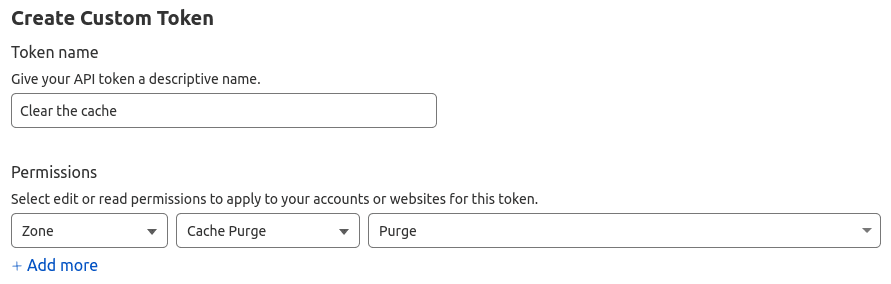
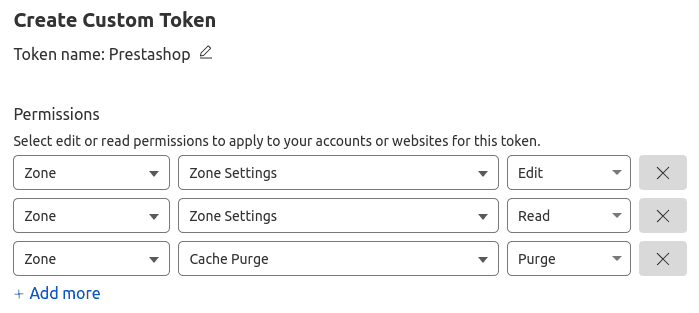
Allow to manage Minify settings

diff --git a/pixel_cloudflare.php b/pixel_cloudflare.php
@@ -9,7 +9,9 @@ if (!defined('_PS_VERSION_')) {
     exit;
 }
 
+use Pixel\Module\Cloudflare\Model\Api;
 use PrestaShop\PrestaShop\Core\Addon\Theme\ThemeProviderInterface;
+use PrestaShop\PrestaShop\Core\Exception\ContainerNotFoundException;
 use PrestaShop\PrestaShop\Core\Module\WidgetInterface;
 
 class Pixel_cloudflare extends Module
@@ -207,6 +209,38 @@ class Pixel_cloudflare extends Module
                 'name'     => 'CLOUDFLARE_ACCOUNT_EMAIL',
                 'size'     => 20,
                 'required' => false,
+            ],
+            'API_AUTOMATICALLY_MINIFY' => [
+                'type'     => 'select',
+                'multiple' => true,
+                'label'    => $this->trans('Automatically minify', [], 'Modules.Pixelcloudflare.Admin'),
+                'name'     => 'API_AUTOMATICALLY_MINIFY[]',
+                'required' => false,
+                'options' => [
+                    'query' => [
+                        [
+                            'value' => 'js',
+                            'name'  => $this->trans('JavaScript', [], 'Modules.Pixelcloudflare.Admin'),
+                        ],
+                        [
+                            'value' => 'css',
+                            'name'  => $this->trans('CSS', [], 'Modules.Pixelcloudflare.Admin'),
+                        ],
+                        [
+                            'value' => 'html',
+                            'name'  => $this->trans('HTML', [], 'Modules.Pixelcloudflare.Admin'),
+                        ],
+                    ],
+                    'id'   => 'value',
+                    'name' => 'name',
+                ],
+                'desc' => Configuration::get('CLOUDFLARE_API_AUTHENTICATION_MODE') === 'api_token' ?
+                    $this->trans(
+                    'A valid token with permission on "Zone Settings" for "Zone" is required (Read and Edit).',
+                    [],
+                    'Modules.Pixelcloudflare.Admin'
+                    ) : ''
+                ,
             ]
         ];
     }
@@ -215,14 +249,28 @@ class Pixel_cloudflare extends Module
      * This method handles the module's configuration page
      *
      * @return string
+     * @throws ContainerNotFoundException
      */
     public function getContent(): string
     {
         $output = '';
 
+        /** @var Api $api */
+        $api = $this->getContainer()->get('pixel.cloudflare.api');
+
         if (Tools::isSubmit('submit' . $this->name)) {
             foreach ($this->getConfigFields() as $code => $field) {
-                $value = Tools::getValue($field['name']);
+                $value = Tools::getValue($code);
+
+                // Cloudflare API settings
+                if ($code === 'API_AUTOMATICALLY_MINIFY') {
+                    if (is_array($value)) {
+                        $api->patchMinifySetting($value);
+                    }
+                    continue;
+                }
+
+                // Prestashop settings
                 if ($field['required'] && empty($value)) {
                     return $this->displayError(
                             $this->trans('%field% is empty', ['%field%' => $field['label']], 'Modules.Pixelcloudflare.Admin')
@@ -244,6 +292,7 @@ class Pixel_cloudflare extends Module
      * Builds the configuration form
      *
      * @return string
+     * @throws ContainerNotFoundException
      */
     public function displayForm(): string
     {
@@ -270,11 +319,28 @@ class Pixel_cloudflare extends Module
 
         $helper->default_form_language = (int) Configuration::get('PS_LANG_DEFAULT');
 
+        /** @var Api $api */
+        $api = $this->getContainer()->get('pixel.cloudflare.api');
+
         foreach ($this->getConfigFields() as $code => $field) {
+            // Prestashop settings
             $value = Tools::getValue($code, Configuration::get($code));
+
             if (!is_array($value) && ($field['multiple'] ?? false) === true) {
-                $value = explode(',', $value);
+                $value = explode(',', (string)$value);
             }
+
+            // Cloudflare API settings
+            if ($code === 'API_AUTOMATICALLY_MINIFY') {
+                $value = [];
+                $result = $api->GetMinifySetting();
+                foreach (($result['result']['value'] ?? []) as $type => $state) {
+                    if (strtolower($state) === 'on') {
+                        $value[] = $type;
+                    }
+                }
+            }
+
             $helper->fields_value[$field['name']] = $value;
         }
 

diff --git a/src/Model/Api.php b/src/Model/Api.php
@@ -39,6 +39,58 @@ class Api
     }
 
     /**
+     * Retrieve minifier settings
+     *
+     * @return array
+     */
+    public function GetMinifySetting(): array
+    {
+        if (!$this->config->getZoneId()) {
+            return $this->internalError('The Zone ID parameter is missing in the module configuration');
+        }
+
+        try {
+            return $this->execute(
+                'GET',
+                'zones/' . $this->config->getZoneId() . '/settings/minify'
+            );
+        } catch (Throwable $throwable) {
+            return $this->internalError($throwable->getMessage());
+        }
+    }
+
+    /**
+     * Patch Minify Setting
+     *
+     * @param array $values
+     * @return array
+     */
+    public function patchMinifySetting(array $values): array
+    {
+        if (!$this->config->getZoneId()) {
+            return $this->internalError('The Zone ID parameter is missing in the module configuration');
+        }
+
+        $types = ['js' => 'off', 'css' => 'off', 'html' => 'off'];
+        foreach ($values as $type) {
+            if (!isset($types[$type])) {
+                continue;
+            }
+            $types[$type] = 'on';
+        }
+
+        try {
+            return $this->execute(
+                'PATCH',
+                'zones/' . $this->config->getZoneId() . '/settings/minify',
+                ['value' => $types]
+            );
+        } catch (Throwable $throwable) {
+            return $this->internalError($throwable->getMessage());
+        }
+    }
+
+    /**
      * Clear the cache
      *
      * @return array
@@ -63,11 +115,11 @@ class Api
     /**
      * Execute api method
      *
-     * @param string  $method
-     * @param string  $path
-     * @param mixed[] $body
+     * @param string $method
+     * @param string $path
+     * @param array  $body
      *
-     * @return mixed[]
+     * @return array
      * @throws TransportExceptionInterface
      * @throws RedirectionExceptionInterface
      * @throws ClientExceptionInterface
@@ -92,11 +144,15 @@ class Api
             return $this->internalError('Please set API connection parameters in module configuration');
         }
 
+        if (!empty($body)) {
+            $headers['content-type'] = 'application/json';
+        }
+
         $response = $this->client->request(
             $method,
             $this->config->getApiUrl() . $path,
             [
-                'body'    => json_encode($body),
+                'body'    => !empty($body) ? json_encode($body) : '',
                 'headers' => $headers
             ]
         );

diff --git a/README.md b/README.md
@@ -9,6 +9,7 @@
 Cloudflare API features in Prestashop:
 
 - Clear Cloudflare Cache in the Prestashop admin
+- Update settings: Auto Minify (CSS, JS, HTML)
 
 ![Flush Cloudflare Cache](screenshot.png)
 
@@ -33,15 +34,20 @@ Move the downloaded file in the Prestashop **modules** directory and unzip the a
 
 From the module manager, find the module and click on configure.
 
-| Field               | Description                                                                            | Required |
-|:--------------------|:---------------------------------------------------------------------------------------|----------|
-| Zone ID             | The website Zone ID                                                                    | Y        |
-| Authentication mode | The authentication mode: API Token or Global API key                                   | Y        |
-| API Token *         | A valid token from your Cloudflare Account with permission on "Cache Purge" for "Zone" | Y        |
-| Global API Key      | The Cloudflare Global API key                                                          | Y        |
-| Account Email       | Email address associated with your Cloudflare account                                  | Y        |
+| Field                | Description                                                                            | Required |
+|:---------------------|:---------------------------------------------------------------------------------------|----------|
+| Zone ID              | The website Zone ID                                                                    | Y        |
+| Authentication mode  | The authentication mode: API Token or Global API key                                   | Y        |
+| API Token *          | A valid token from your Cloudflare Account with permission on "Cache Purge" for "Zone" | Y        |
+| Global API Key       | The Cloudflare Global API key                                                          | Y        |
+| Account Email        | Email address associated with your Cloudflare account                                  | Y        |
+| Automatically minify | Reduce the file size of source code on your website                                    | N        |
 
-\* For an API Token authentication (more secure), create a new custom API token with permission on "Cache Purge" for "Zone":
+\* For an API Token authentication (more secure), create a new custom API token with permissions on:
+
+- Zone - Cache Purge - Purge
+- Zone - Zone Settings - Edit
+- Zone - Zone Settings - Read
 
 ![Flush Cloudflare Cache](token.png)
 
